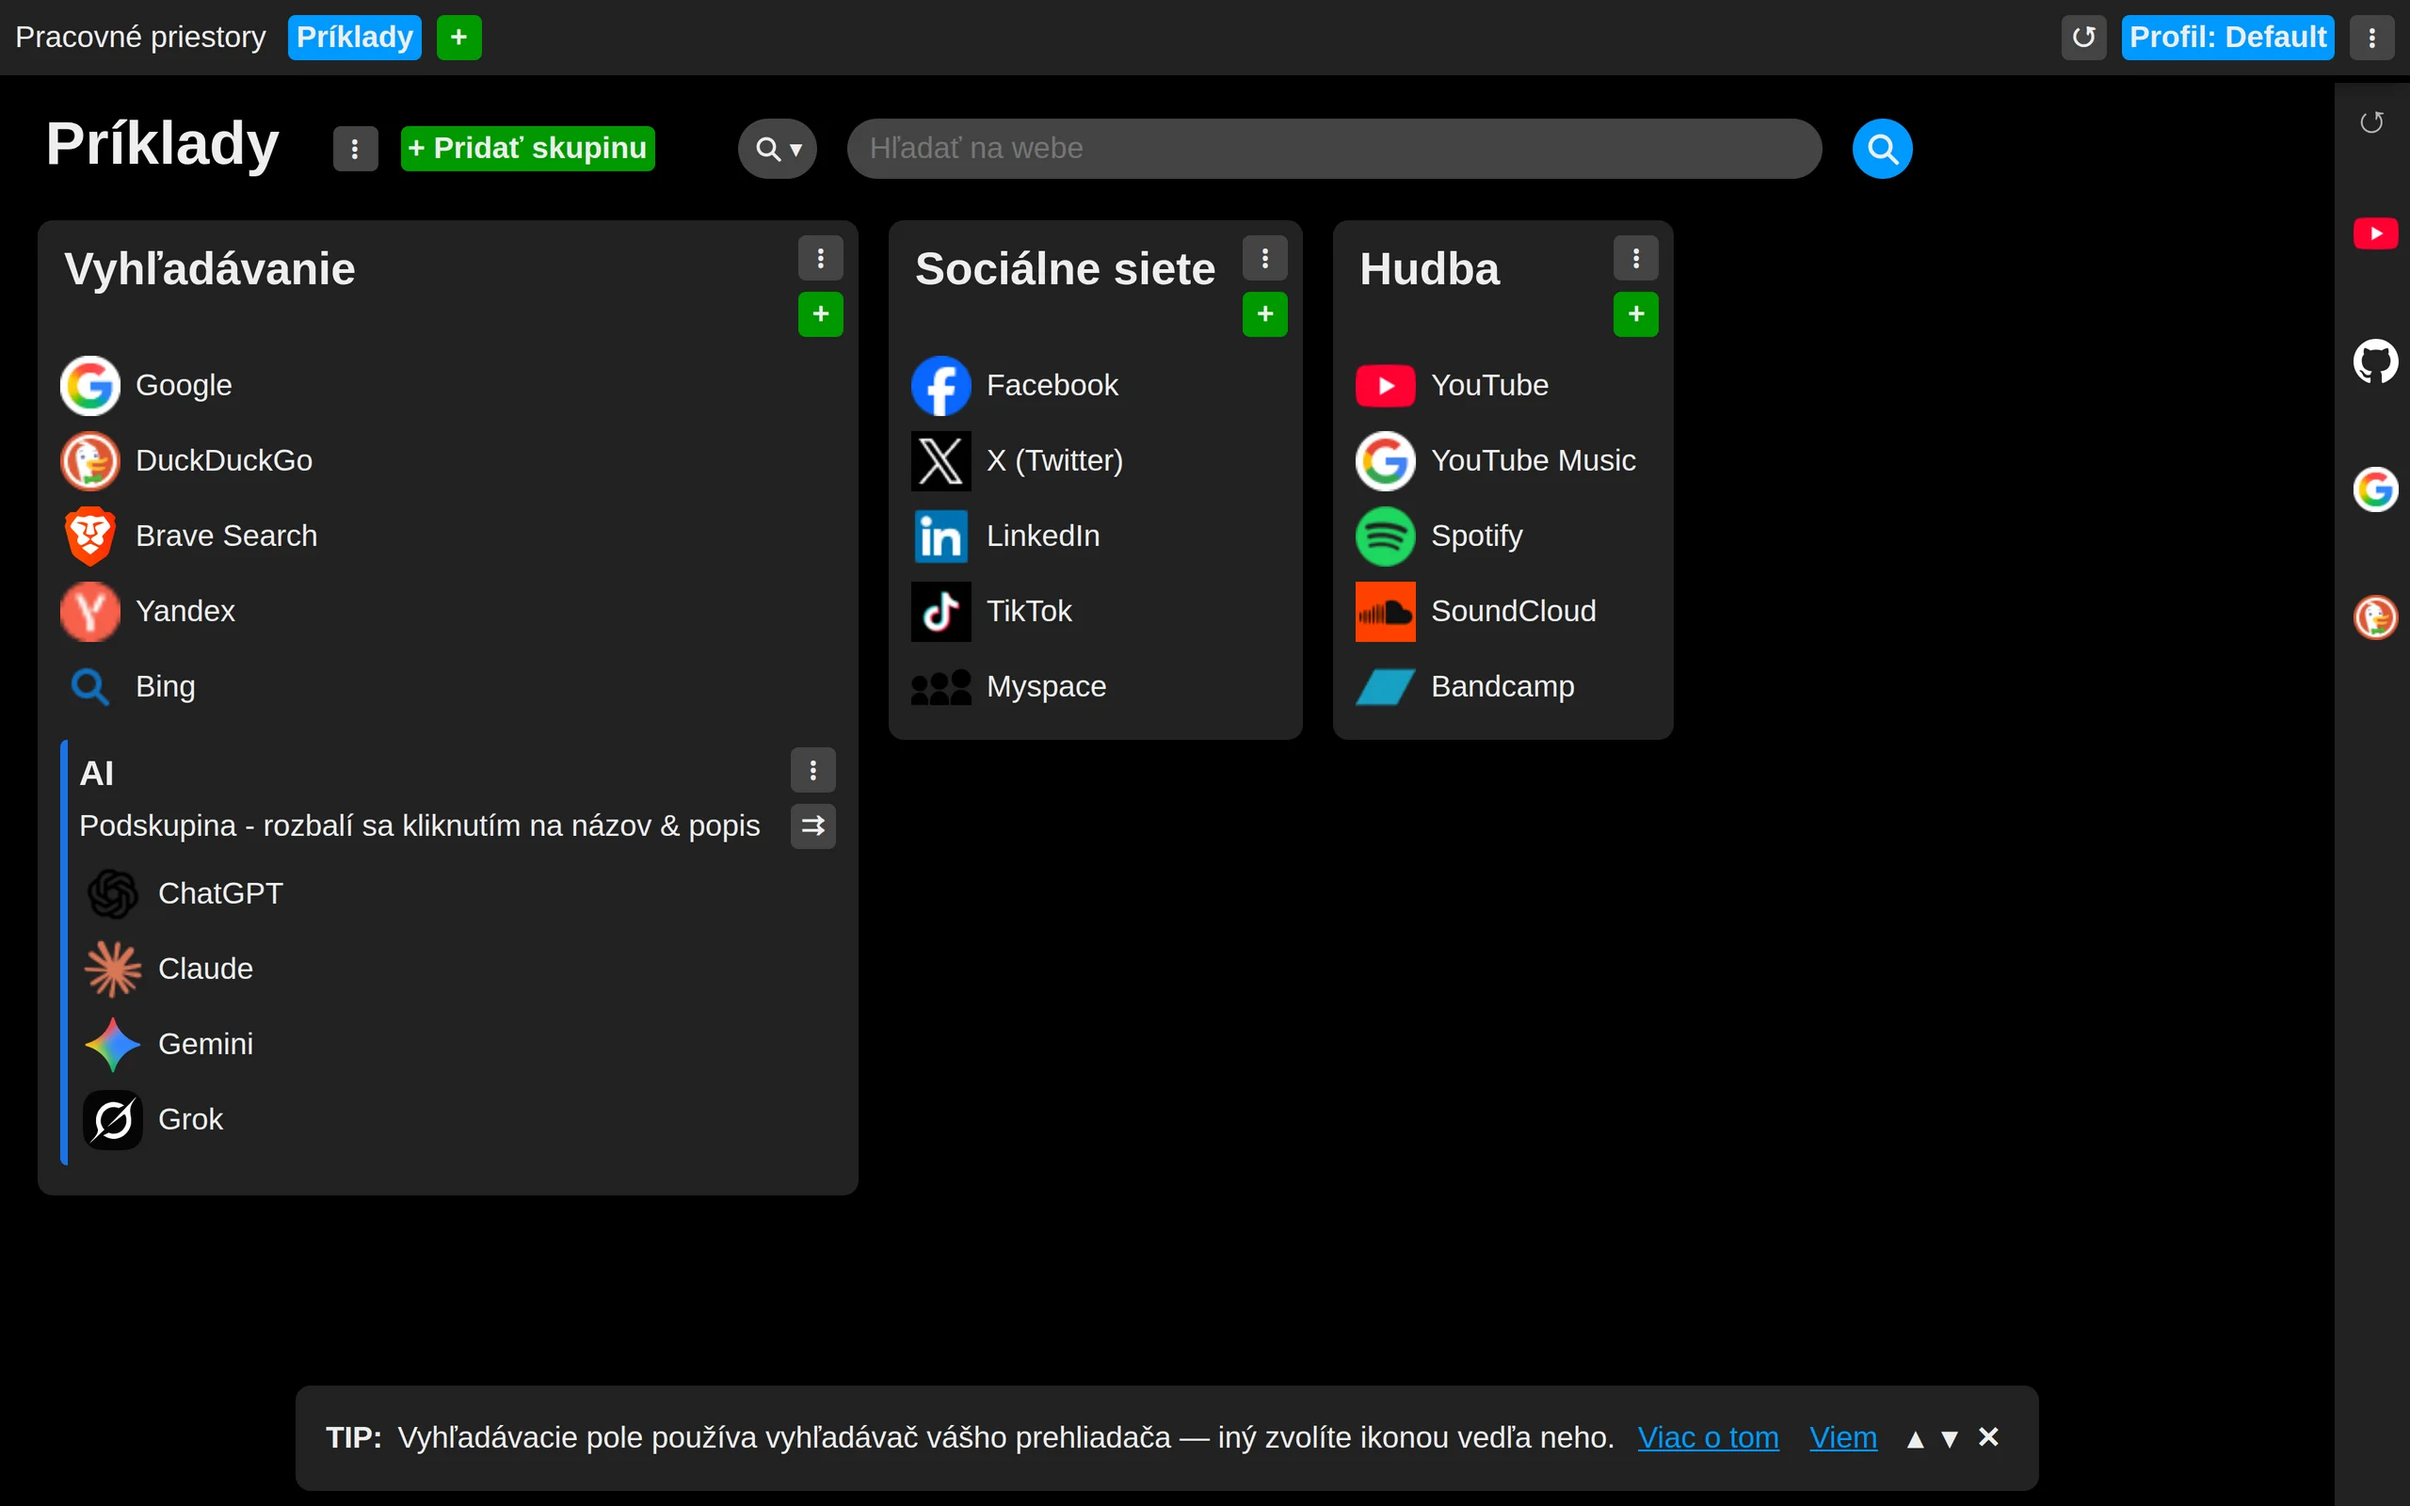
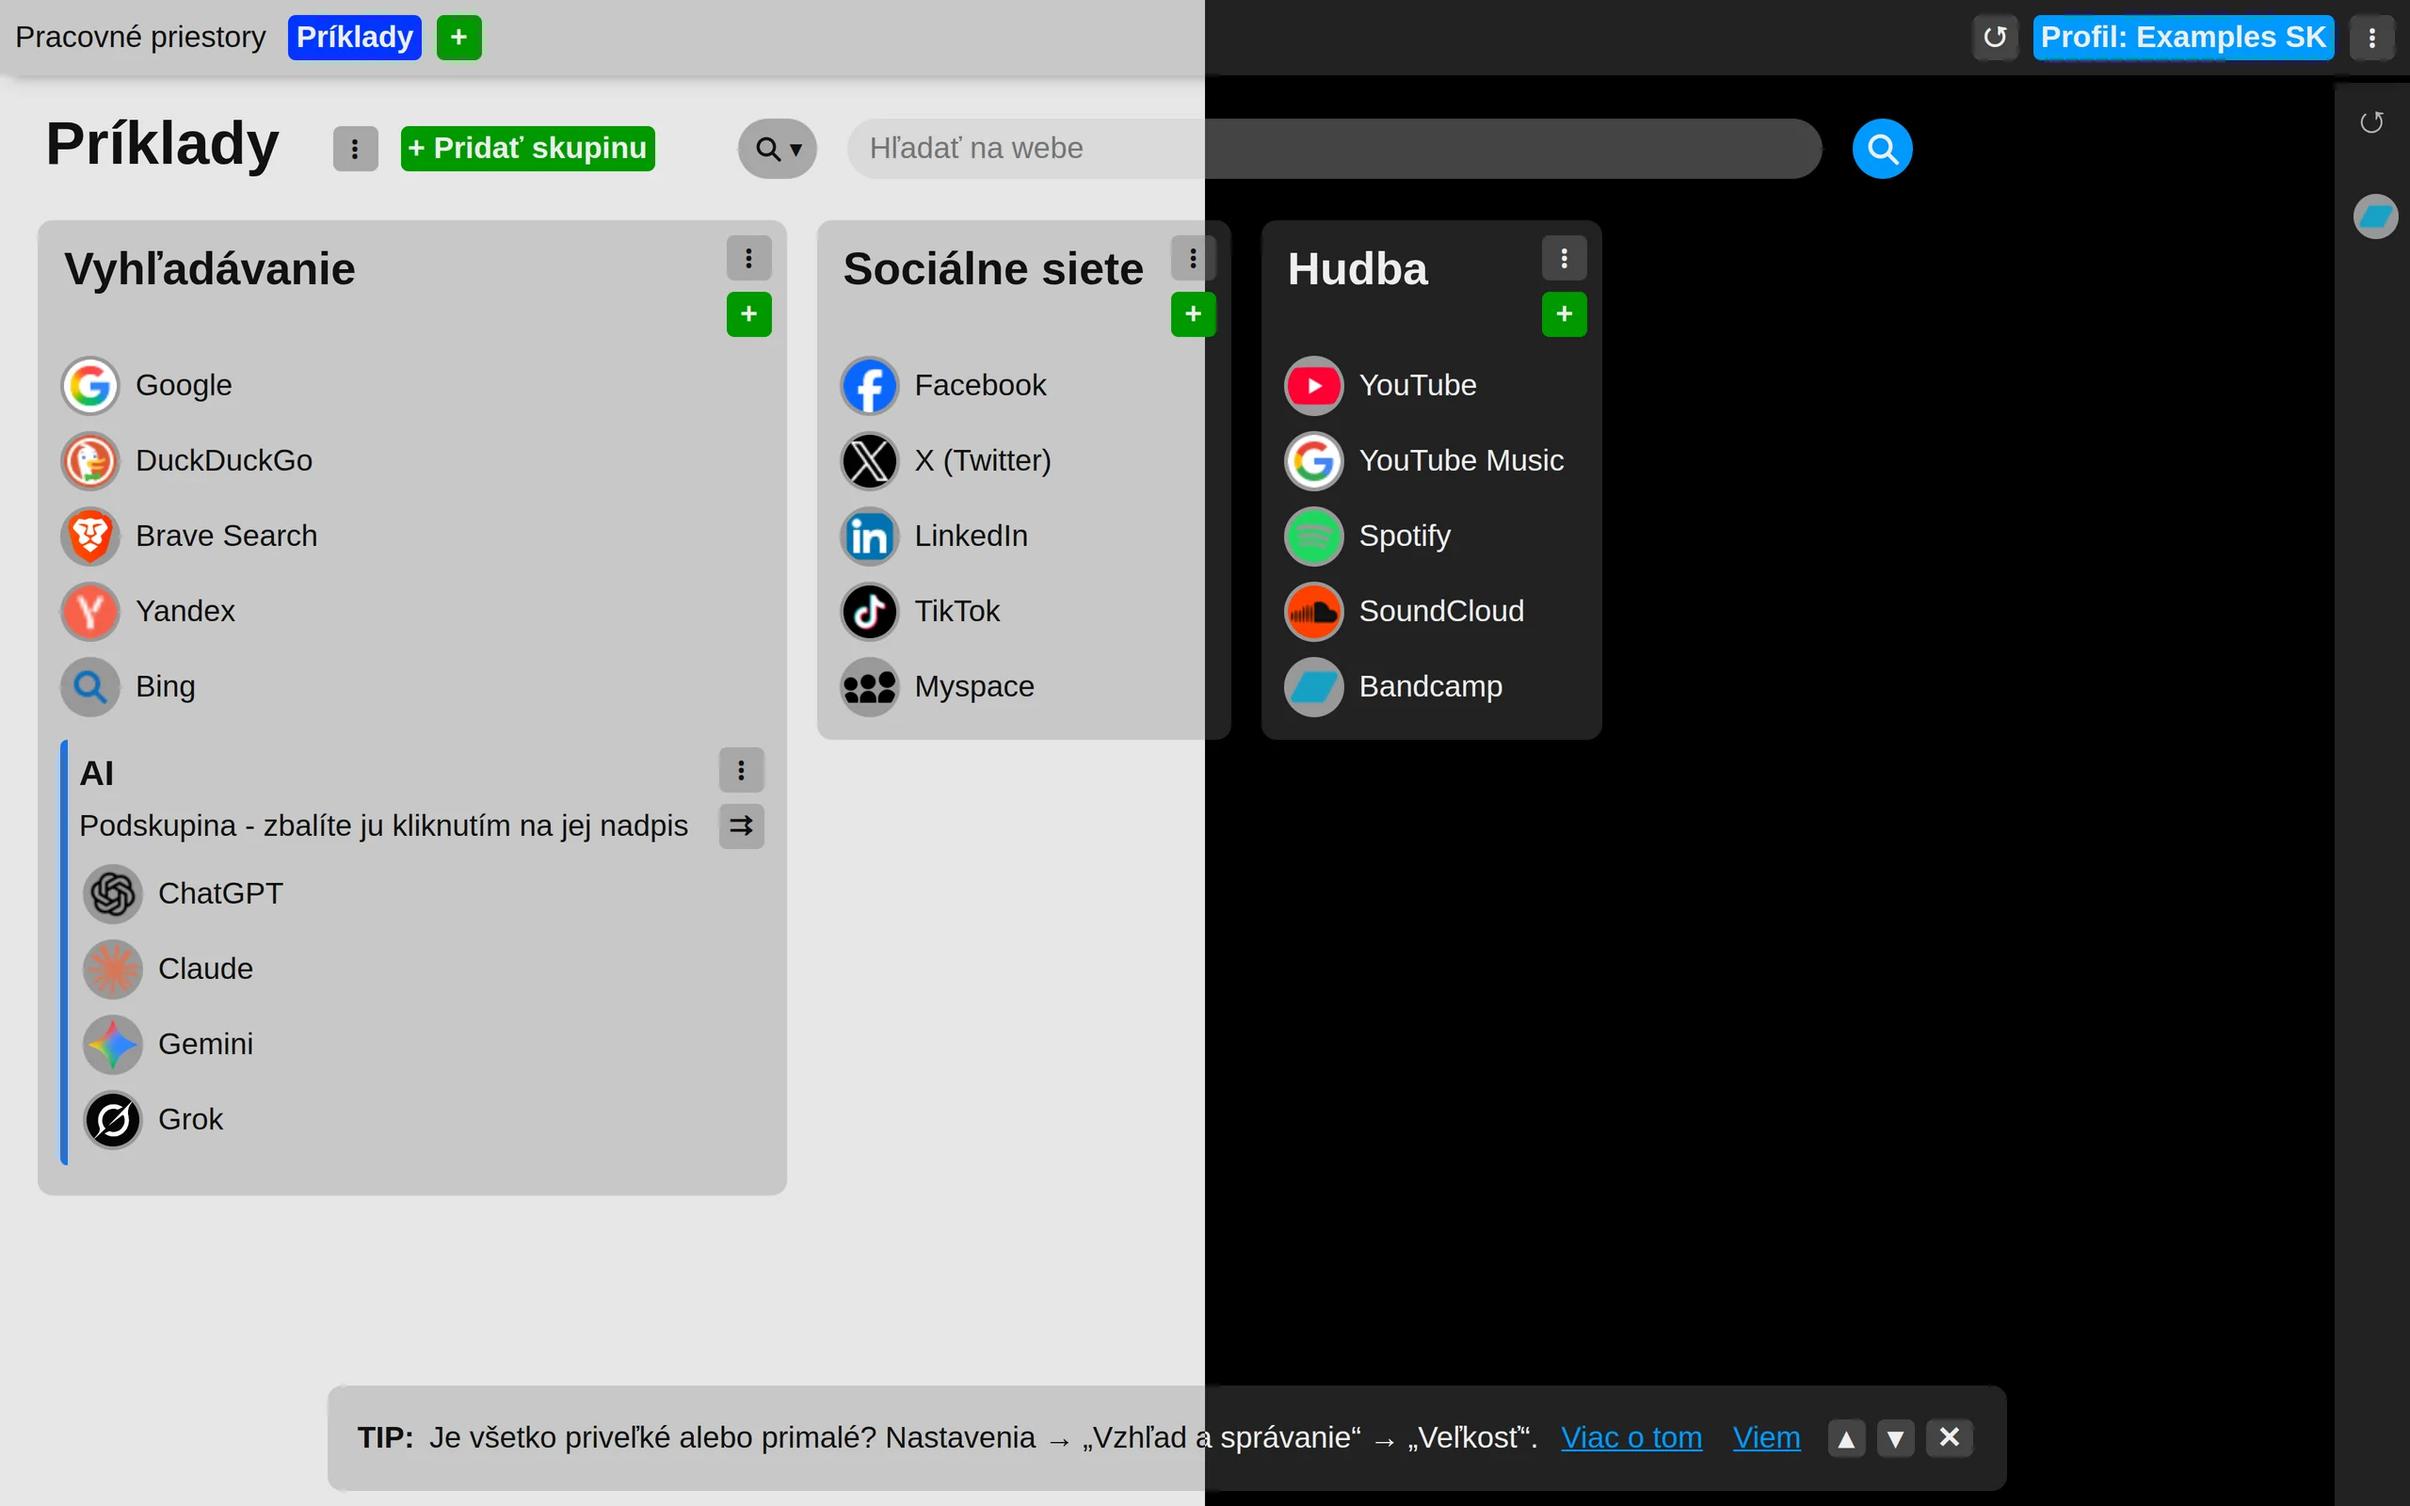
add theme tips

diff --git a/public/content/tips/en/choose-theme.md b/public/content/tips/en/choose-theme.md
@@ -9,3 +9,5 @@ The extension can be drawn light or dark. Choose which in the extension settings
 The change applies straight away, in every new tab you have open.
 
 This setting is not synchronized; it is remembered only in the browser where you set it.
+
+![Themes comparation](../../../images/en/tips/choose-theme/1_1x.webp)
